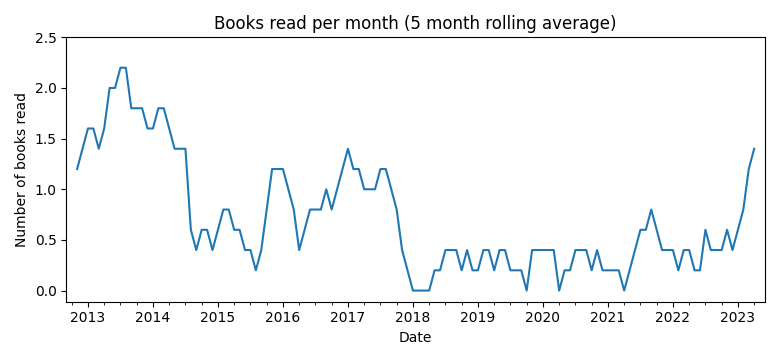
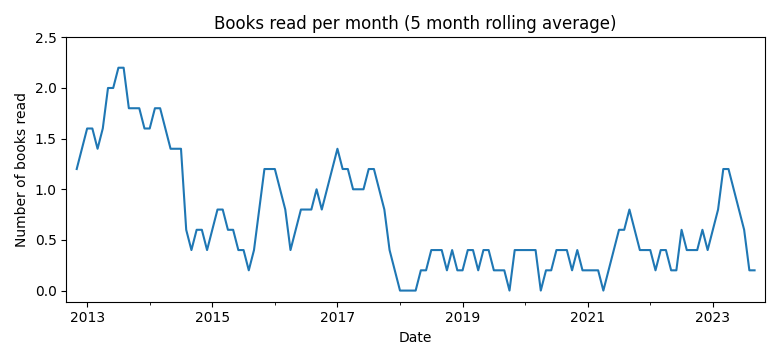
Snow Crash

diff --git a/README.md b/README.md
@@ -7,14 +7,14 @@ The most significant events impacting the number of books I read are
 
 ### Statistics
 Total number of books read: 96  
-Books per month: 0.74 (2012/9 to 2023/6)
+Books per month: 0.71 (2012/9 to 2023/11)
 
 ![Books recorded by year](book_recorded.png)
 ![Books read per month](book_read.png)
 
 ### List of books
-*Chapterhouse: Dune*, Frank Herbert  
-Finished: 2023.06.27
+*Snow Crash*, Neal Stephenson  
+Finished: 2023.11.13
 
 *Heretics of Dune*, Frank Herbert  
 Finished: 2023.06.10
